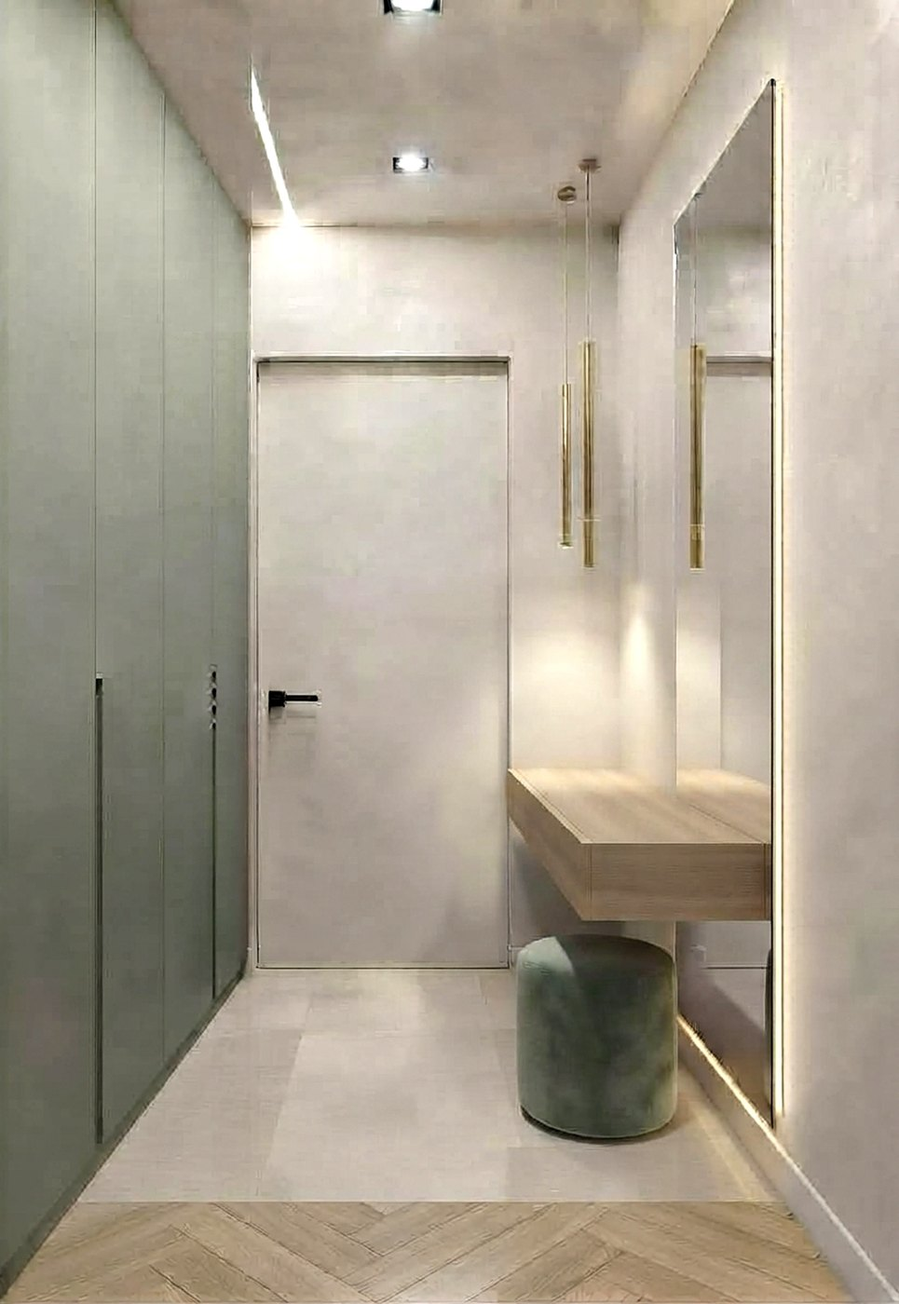
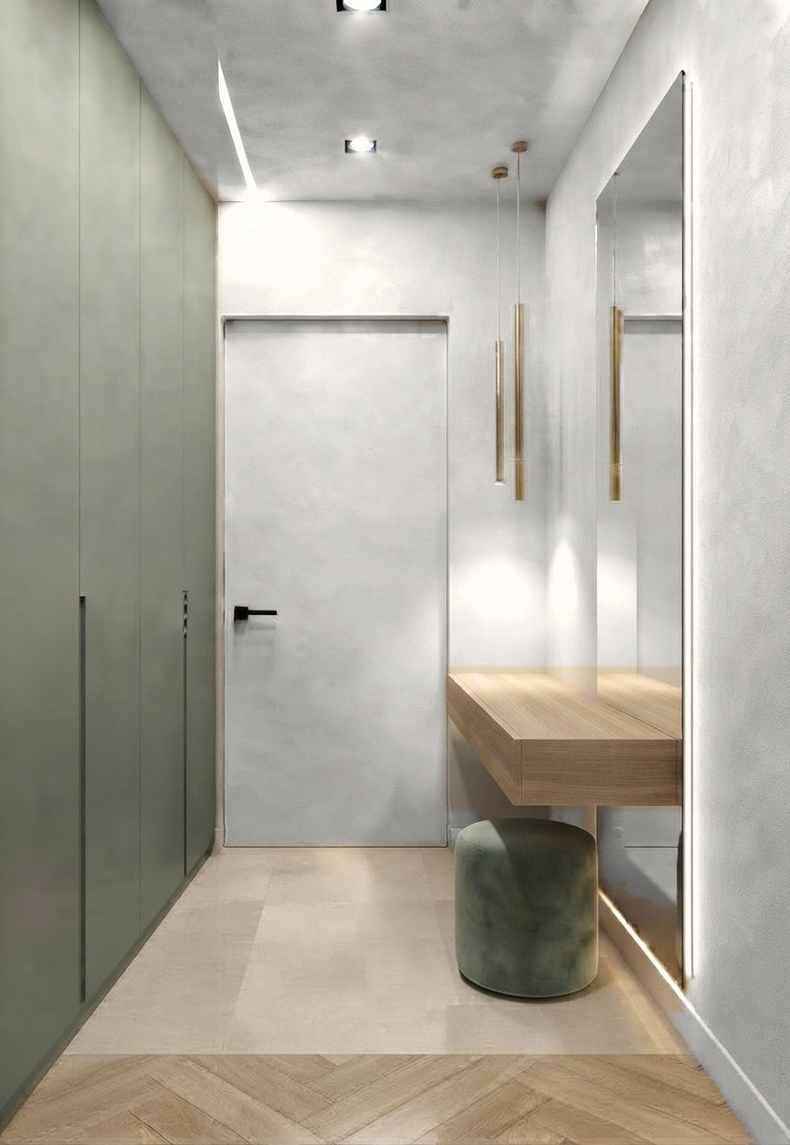
Hallway: white walls version
Claude-Session: https://claude.ai/code/session_01MbzakcTS9zrjW94ifsyEv2

diff --git a/interior/index.html b/interior/index.html
@@ -87,7 +87,7 @@ html,body{overflow-x:hidden}
   <div class="feed" id="feed"></div>
 </div>
 <div class="lb" id="lb" hidden><img id="lbImg" alt=""><button id="lbClose" aria-label="Закрыть">×</button></div>
-<script id="data" type="application/json">[{"key": "gostinaya", "title": "Кухня-гостиная", "items": [{"id": "v7-gostinaya-05", "src": "img/v7-gostinaya-05.jpg", "w": 1195, "h": 896, "label": "Наша комната по фото: вид из прихожей на окно"}, {"id": "v7-gostinaya-02", "src": "img/v7-gostinaya-02.jpg", "w": 1195, "h": 896, "label": "Наша комната по фото: кухня шалфей, диван розовый, стол круглый"}, {"id": "v7-gostinaya-03", "src": "img/v7-gostinaya-03.jpg", "w": 896, "h": 1195, "label": "Наша комната по фото: вид от окна на кухню и нишу"}, {"id": "v7-gostinaya-04", "src": "img/v7-gostinaya-04.jpg", "w": 896, "h": 1195, "label": "Наша комната по фото: вид вдоль стены с ТВ"}, {"id": "v3-gostinaya-01", "src": "img/v3-gostinaya-01.jpg", "w": 1115, "h": 960, "label": "Кухня и диван разного цвета · 1"}, {"id": "v3-gostinaya-02", "src": "img/v3-gostinaya-02.jpg", "w": 1115, "h": 960, "label": "Кухня и диван разного цвета · 2"}, {"id": "v3-gostinaya-03", "src": "img/v3-gostinaya-03.jpg", "w": 1115, "h": 960, "label": "Кухня и диван разного цвета · 3"}, {"id": "v3-gostinaya-04", "src": "img/v3-gostinaya-04.jpg", "w": 1115, "h": 960, "label": "Кухня и диван разного цвета · 4"}, {"id": "v3-gostinaya-05", "src": "img/v3-gostinaya-05.jpg", "w": 1115, "h": 960, "label": "Кухня и диван разного цвета · 5"}, {"id": "v3-gostinaya-06", "src": "img/v3-gostinaya-06.jpg", "w": 1115, "h": 960, "label": "Кухня и диван разного цвета · 6"}, {"id": "v3-gostinaya-07", "src": "img/v3-gostinaya-07.jpg", "w": 1115, "h": 960, "label": "Кухня и диван разного цвета · 7"}, {"id": "v3-gostinaya-08", "src": "img/v3-gostinaya-08.jpg", "w": 1115, "h": 960, "label": "Кухня и диван разного цвета · 8"}, {"id": "v3-gostinaya-09", "src": "img/v3-gostinaya-09.jpg", "w": 1115, "h": 960, "label": "Глубокий зелёный · 1"}, {"id": "v3-gostinaya-10", "src": "img/v3-gostinaya-10.jpg", "w": 1115, "h": 960, "label": "Глубокий зелёный · 2"}, {"id": "v3-gostinaya-11", "src": "img/v3-gostinaya-11.jpg", "w": 1115, "h": 960, "label": "Глубокий зелёный · 3"}, {"id": "v3-gostinaya-12", "src": "img/v3-gostinaya-12.jpg", "w": 1115, "h": 960, "label": "Глубокий зелёный · 4"}, {"id": "v3-gostinaya-13", "src": "img/v3-gostinaya-13.jpg", "w": 1115, "h": 960, "label": "Глубокий зелёный · 5"}, {"id": "v2-gostinaya-01", "src": "img/v2-gostinaya-01.jpg", "w": 1264, "h": 843}, {"id": "v2-gostinaya-02", "src": "img/v2-gostinaya-02.jpg", "w": 1115, "h": 960}, {"id": "v2-gostinaya-03", "src": "img/v2-gostinaya-03.jpg", "w": 1115, "h": 960}, {"id": "v2-gostinaya-04", "src": "img/v2-gostinaya-04.jpg", "w": 1115, "h": 960}]}, {"key": "spalnya", "title": "Спальня", "items": [{"id": "v2-spalnya-01", "src": "img/v2-spalnya-01.jpg", "w": 1376, "h": 768}, {"id": "v2-spalnya-02", "src": "img/v2-spalnya-02.jpg", "w": 1376, "h": 768}, {"id": "v2-spalnya-03", "src": "img/v2-spalnya-03.jpg", "w": 1115, "h": 960}, {"id": "v2-spalnya-04", "src": "img/v2-spalnya-04.jpg", "w": 1376, "h": 768}, {"id": "v2-spalnya-05", "src": "img/v2-spalnya-05.jpg", "w": 1376, "h": 768}]}, {"key": "komnata", "title": "Комната", "items": [{"id": "v5-komnata-01", "w": 1153, "h": 912, "src": "img/v5-komnata-01.jpg", "label": "Белые стены, шкаф шалфей"}, {"id": "v3-komnata-01", "src": "img/v3-komnata-01.jpg", "w": 1052, "h": 827, "label": "Цветная стена: глубокий зелёный"}, {"id": "v3-komnata-02", "src": "img/v3-komnata-02.jpg", "w": 1200, "h": 896, "label": "Цветная стена: шалфей"}, {"id": "v3-komnata-03", "src": "img/v3-komnata-03.jpg", "w": 1011, "h": 732, "label": "Цветная стена: шалфей"}, {"id": "v3-komnata-04", "src": "img/v3-komnata-04.jpg", "w": 987, "h": 768, "label": "Цветная стена: синяя стена"}, {"id": "v3-komnata-05", "src": "img/v3-komnata-05.jpg", "w": 869, "h": 708, "label": "Цветная стена: синяя стена"}, {"id": "v3-komnata-06", "src": "img/v3-komnata-06.jpg", "w": 989, "h": 828, "label": "Цветная стена: глубокий зелёный"}, {"id": "v3-komnata-07", "src": "img/v3-komnata-07.jpg", "w": 976, "h": 714, "label": "Цветная стена: глубокий зелёный"}, {"id": "v3-komnata-08", "src": "img/v3-komnata-08.jpg", "w": 985, "h": 779, "label": "Цветная стена: шалфей"}, {"id": "v3-komnata-09", "src": "img/v3-komnata-09.jpg", "w": 1200, "h": 896, "label": "Цветная стена: синяя стена"}, {"id": "v3-komnata-10", "src": "img/v3-komnata-10.jpg", "w": 908, "h": 721, "label": "Цветная стена: синяя стена"}, {"id": "v2-komnata-01", "src": "img/v2-komnata-01.jpg", "w": 1376, "h": 768}, {"id": "v2-komnata-02", "src": "img/v2-komnata-02.jpg", "w": 1264, "h": 842}, {"id": "v2-komnata-03", "src": "img/v2-komnata-03.jpg", "w": 1376, "h": 768}, {"id": "v2-komnata-04", "src": "img/v2-komnata-04.jpg", "w": 1376, "h": 768}]}, {"key": "prihozhaya", "title": "Прихожая", "items": [{"id": "v8-prihozhaya-01", "src": "img/v8-prihozhaya-01.jpg", "w": 965, "h": 1400, "label": "Наша прихожая по фото"}, {"id": "v6-prihozhaya-01", "src": "img/v6-prihozhaya-01.jpg", "w": 797, "h": 1152, "label": "A · шалфей, консоль из дуба, зеркало, светлый пол"}, {"id": "v6-prihozhaya-02", "src": "img/v6-prihozhaya-02.jpg", "w": 863, "h": 1248, "label": "B · шалфей, полуовальное зеркало с подсветкой"}, {"id": "v6-prihozhaya-03", "src": "img/v6-prihozhaya-03.jpg", "w": 863, "h": 1248, "label": "шкаф шалфей, белые стены, полоса шалфея за зеркалом"}, {"id": "v6-prihozhaya-04", "src": "img/v6-prihozhaya-04.jpg", "w": 863, "h": 1248, "label": "шкаф шалфей, белые стены, полуовальное зеркало"}, {"id": "v4-prihozhaya-01", "src": "img/v4-prihozhaya-01.jpg", "w": 928, "h": 1152, "label": "Новая плитка: пол «бетон»"}, {"id": "v4-prihozhaya-02", "src": "img/v4-prihozhaya-02.jpg", "w": 928, "h": 1152, "label": "Пол «бетон» + полоса терраццо"}, {"id": "v3-prihozhaya-02", "src": "img/v3-prihozhaya-02.jpg", "w": 928, "h": 1152, "label": "Зеркало, рельеф, консоль"}, {"id": "v3-prihozhaya-03", "src": "img/v3-prihozhaya-03.jpg", "w": 928, "h": 1152, "label": "Зеркало, рельеф, консоль · 2"}, {"id": "v3-prihozhaya-04", "src": "img/v3-prihozhaya-04.jpg", "w": 768, "h": 1398, "label": "Зеркало, рельеф, консоль · 3"}, {"id": "v3-prihozhaya-05", "src": "img/v3-prihozhaya-05.jpg", "w": 928, "h": 1152, "label": "Шахматка мрамор 30×30"}, {"id": "v2-prihozhaya-01", "src": "img/v2-prihozhaya-01.jpg", "w": 928, "h": 1152}, {"id": "v2-prihozhaya-02", "src": "img/v2-prihozhaya-02.jpg", "w": 928, "h": 1152}, {"id": "v2-prihozhaya-03", "src": "img/v2-prihozhaya-03.jpg", "w": 928, "h": 1152}, {"id": "v2-prihozhaya-04", "src": "img/v2-prihozhaya-04.jpg", "w": 928, "h": 1152}]}, {"key": "sanuzel", "title": "Большой санузел", "items": [{"id": "v4-sanuzel-01", "src": "img/v4-sanuzel-01.jpg", "w": 1024, "h": 1024, "label": "Терраццо · зелёный"}, {"id": "v4-sanuzel-02", "src": "img/v4-sanuzel-02.jpg", "w": 1024, "h": 1024, "label": "Терраццо · фисташковый"}, {"id": "v4-sanuzel-03", "src": "img/v4-sanuzel-03.jpg", "w": 1024, "h": 1024, "label": "Терраццо · розовый"}, {"id": "v3-sanuzel-01", "src": "img/v3-sanuzel-01.jpg", "w": 1024, "h": 1024, "label": "Шахматка мрамор · розовый"}, {"id": "v3-sanuzel-02", "src": "img/v3-sanuzel-02.jpg", "w": 1024, "h": 1024, "label": "Шахматка мрамор · фисташковый"}, {"id": "v3-sanuzel-03", "src": "img/v3-sanuzel-03.jpg", "w": 1024, "h": 1024, "label": "Шахматка мрамор · зелёный"}, {"id": "v2-sanuzel-01", "src": "img/v2-sanuzel-01.jpg", "w": 1024, "h": 1024}, {"id": "v2-sanuzel-02", "src": "img/v2-sanuzel-02.jpg", "w": 1024, "h": 1024}, {"id": "v2-sanuzel-03", "src": "img/v2-sanuzel-03.jpg", "w": 1024, "h": 1024}]}, {"key": "malyy", "title": "Малый санузел", "items": [{"id": "v4-malyy-01", "src": "img/v4-malyy-01.jpg", "w": 928, "h": 1152, "label": "Терраццо · тёмная стена"}, {"id": "v4-malyy-02", "src": "img/v4-malyy-02.jpg", "w": 928, "h": 1152, "label": "Терраццо · тёмная стена 2"}, {"id": "v3-malyy-01", "src": "img/v3-malyy-01.jpg", "w": 922, "h": 1152, "label": "Шахматка мрамор · тёмная стена"}, {"id": "v3-malyy-02", "src": "img/v3-malyy-02.jpg", "w": 922, "h": 1152, "label": "Шахматка мрамор · рифлёное стекло"}, {"id": "v2-malyy-02", "src": "img/v2-malyy-02.jpg", "w": 922, "h": 1152}, {"id": "v2-malyy-03", "src": "img/v2-malyy-03.jpg", "w": 922, "h": 1152}, {"id": "malyy-01", "src": "img/malyy-01.jpg", "w": 800, "h": 1000}]}, {"key": "plitka", "title": "Плитка", "items": [{"id": "v4-plitka-01", "src": "img/v4-plitka-01.jpg", "w": 600, "h": 800, "label": "Новая: стена терраццо"}, {"id": "v4-plitka-02", "src": "img/v4-plitka-02.jpg", "w": 600, "h": 800, "label": "Новая: пол «бетон»"}, {"id": "plitka-01", "src": "img/plitka-01.jpg", "w": 600, "h": 800, "label": "№1 · 0600FF0F-9DD6-43B9-9C91-C7F926A88519.webp"}, {"id": "plitka-02", "src": "img/plitka-02.jpg", "w": 600, "h": 800, "label": "№2 · 19242F42-C977-4784-9F53-6B5CF98BA716.webp"}, {"id": "plitka-03", "src": "img/plitka-03.jpg", "w": 600, "h": 800, "label": "№3 · 39A895D6-7C68-4E81-9244-2EB626393E7F.webp"}, {"id": "plitka-04", "src": "img/plitka-04.jpg", "w": 600, "h": 800, "label": "№4 · 3B6C7387-F3D7-4D1D-BF3E-AADA55166824.webp"}, {"id": "plitka-05", "src": "img/plitka-05.jpg", "w": 600, "h": 800, "label": "№5 · 436C2FA6-A60E-4F56-9E1F-BFCEEE47C756.webp"}, {"id": "plitka-06", "src": "img/plitka-06.jpg", "w": 600, "h": 800, "label": "№6 · 732E4BD0-69F8-4F92-8E37-33B5F40D059F.webp"}, {"id": "plitka-07", "src": "img/plitka-07.jpg", "w": 600, "h": 800, "label": "№7 · 7E7CBB3A-52A3-4883-82BD-B31A5F33C906.webp"}, {"id": "plitka-08", "src": "img/plitka-08.jpg", "w": 600, "h": 800, "label": "№8 · 858C799C-D83B-478A-9A26-941D6CF86D83.webp"}, {"id": "plitka-09", "src": "img/plitka-09.jpg", "w": 600, "h": 800, "label": "№9 · 8BC1A99E-0EA1-44F7-8BE5-B46068AB709D.webp"}, {"id": "plitka-10", "src": "img/plitka-10.jpg", "w": 600, "h": 800, "label": "№10 · 9B68CDC4-CA64-4B92-B1E3-8F3ACD6FF673.webp"}, {"id": "plitka-11", "src": "img/plitka-11.jpg", "w": 600, "h": 800, "label": "№11 · 9EF97333-BF62-44B4-B4D2-7B8AB1CAF12C.webp"}, {"id": "plitka-12", "src": "img/plitka-12.jpg", "w": 600, "h": 800, "label": "№12 · A222582E-1CE6-45B6-A207-BA7B76B9F7B4.webp"}, {"id": "plitka-13", "src": "img/plitka-13.jpg", "w": 600, "h": 800, "label": "№13 · B05E9139-A320-4B85-A673-EF6696DED826.webp"}, {"id": "plitka-14", "src": "img/plitka-14.jpg", "w": 600, "h": 800, "label": "№14 · B2628FF3-EC69-4166-AF57-BB0EAFF3ECAD.webp"}, {"id": "plitka-15", "src": "img/plitka-15.jpg", "w": 600, "h": 800, "label": "№15 · BD685EE5-0C8B-463C-960B-64CBDBAA540F.webp"}, {"id": "plitka-16", "src": "img/plitka-16.jpg", "w": 370, "h": 800, "label": "№16 · C9B29657-B3FE-41BB-975E-7B820749408E.webp"}, {"id": "plitka-17", "src": "img/plitka-17.jpg", "w": 600, "h": 800, "label": "№17 · CEA86B43-93B3-47DA-A731-0C3256293E69.webp"}, {"id": "plitka-18", "src": "img/plitka-18.jpg", "w": 600, "h": 800, "label": "№18 · DDE9D3A4-8C7F-43A7-894E-7589A5239AA2.webp"}, {"id": "plitka-19", "src": "img/plitka-19.jpg", "w": 600, "h": 800, "label": "№19 · ED52FC30-C172-46E1-BAAC-25F5C9DDBE25.webp"}, {"id": "plitka-20", "src": "img/plitka-20.jpg", "w": 600, "h": 800, "label": "№20 · F3C4255F-F63E-4351-9154-95CF16E21326.webp"}, {"id": "plitka-21", "src": "img/plitka-21.jpg", "w": 600, "h": 800, "label": "№21 · F4AA8B5B-04E9-4710-9C1E-72CDF57FE334.webp"}, {"id": "plitka-22", "src": "img/plitka-22.jpg", "w": 600, "h": 800, "label": "№22 · IMG_6914.jpeg"}, {"id": "plitka-23", "src": "img/plitka-23.jpg", "w": 600, "h": 800, "label": "№23 · IMG_6915.jpeg"}, {"id": "plitka-24", "src": "img/plitka-24.jpg", "w": 600, "h": 800, "label": "№24 · IMG_6916.jpeg"}, {"id": "plitka-25", "src": "img/plitka-25.jpg", "w": 600, "h": 800, "label": "№25 · IMG_6918.jpeg"}, {"id": "plitka-26", "src": "img/plitka-26.jpg", "w": 370, "h": 800, "label": "№26 · IMG_7438.png"}, {"id": "plitka-27", "src": "img/plitka-27.jpg", "w": 600, "h": 800, "label": "№27 · IMG_7833.jpeg"}, {"id": "plitka-28", "src": "img/plitka-28.jpg", "w": 728, "h": 800, "label": "№28 · IMG_7877.jpeg"}, {"id": "plitka-29", "src": "img/plitka-29.jpg", "w": 370, "h": 800, "label": "№29 · IMG_7884.png"}, {"id": "plitka-30", "src": "img/plitka-30.jpg", "w": 598, "h": 561, "label": "№30 · IMG_7892.jpeg"}, {"id": "plitka-31", "src": "img/plitka-31.jpg", "w": 370, "h": 800, "label": "№31 · IMG_7893.png"}, {"id": "plitka-32", "src": "img/plitka-32.jpg", "w": 600, "h": 800, "label": "№32 · IMG_7895.jpeg"}, {"id": "plitka-33", "src": "img/plitka-33.jpg", "w": 600, "h": 800, "label": "№33 · IMG_7896.jpeg"}, {"id": "plitka-34", "src": "img/plitka-34.jpg", "w": 600, "h": 800, "label": "№34 · IMG_7897.jpeg"}, {"id": "plitka-35", "src": "img/plitka-35.jpg", "w": 600, "h": 800, "label": "№35 · IMG_7898.jpeg"}, {"id": "plitka-36", "src": "img/plitka-36.jpg", "w": 600, "h": 800, "label": "№36 · IMG_7899.jpeg"}, {"id": "plitka-37", "src": "img/plitka-37.jpg", "w": 600, "h": 800, "label": "№37 · IMG_7900.jpeg"}, {"id": "plitka-38", "src": "img/plitka-38.jpg", "w": 600, "h": 800, "label": "№38 · IMG_7901.jpeg"}, {"id": "plitka-39", "src": "img/plitka-39.jpg", "w": 600, "h": 800, "label": "№39 · IMG_7902.jpeg"}]}]</script>
+<script id="data" type="application/json">[{"key": "gostinaya", "title": "Кухня-гостиная", "items": [{"id": "v7-gostinaya-05", "src": "img/v7-gostinaya-05.jpg", "w": 1195, "h": 896, "label": "Наша комната по фото: вид из прихожей на окно"}, {"id": "v7-gostinaya-02", "src": "img/v7-gostinaya-02.jpg", "w": 1195, "h": 896, "label": "Наша комната по фото: кухня шалфей, диван розовый, стол круглый"}, {"id": "v7-gostinaya-03", "src": "img/v7-gostinaya-03.jpg", "w": 896, "h": 1195, "label": "Наша комната по фото: вид от окна на кухню и нишу"}, {"id": "v7-gostinaya-04", "src": "img/v7-gostinaya-04.jpg", "w": 896, "h": 1195, "label": "Наша комната по фото: вид вдоль стены с ТВ"}, {"id": "v3-gostinaya-01", "src": "img/v3-gostinaya-01.jpg", "w": 1115, "h": 960, "label": "Кухня и диван разного цвета · 1"}, {"id": "v3-gostinaya-02", "src": "img/v3-gostinaya-02.jpg", "w": 1115, "h": 960, "label": "Кухня и диван разного цвета · 2"}, {"id": "v3-gostinaya-03", "src": "img/v3-gostinaya-03.jpg", "w": 1115, "h": 960, "label": "Кухня и диван разного цвета · 3"}, {"id": "v3-gostinaya-04", "src": "img/v3-gostinaya-04.jpg", "w": 1115, "h": 960, "label": "Кухня и диван разного цвета · 4"}, {"id": "v3-gostinaya-05", "src": "img/v3-gostinaya-05.jpg", "w": 1115, "h": 960, "label": "Кухня и диван разного цвета · 5"}, {"id": "v3-gostinaya-06", "src": "img/v3-gostinaya-06.jpg", "w": 1115, "h": 960, "label": "Кухня и диван разного цвета · 6"}, {"id": "v3-gostinaya-07", "src": "img/v3-gostinaya-07.jpg", "w": 1115, "h": 960, "label": "Кухня и диван разного цвета · 7"}, {"id": "v3-gostinaya-08", "src": "img/v3-gostinaya-08.jpg", "w": 1115, "h": 960, "label": "Кухня и диван разного цвета · 8"}, {"id": "v3-gostinaya-09", "src": "img/v3-gostinaya-09.jpg", "w": 1115, "h": 960, "label": "Глубокий зелёный · 1"}, {"id": "v3-gostinaya-10", "src": "img/v3-gostinaya-10.jpg", "w": 1115, "h": 960, "label": "Глубокий зелёный · 2"}, {"id": "v3-gostinaya-11", "src": "img/v3-gostinaya-11.jpg", "w": 1115, "h": 960, "label": "Глубокий зелёный · 3"}, {"id": "v3-gostinaya-12", "src": "img/v3-gostinaya-12.jpg", "w": 1115, "h": 960, "label": "Глубокий зелёный · 4"}, {"id": "v3-gostinaya-13", "src": "img/v3-gostinaya-13.jpg", "w": 1115, "h": 960, "label": "Глубокий зелёный · 5"}, {"id": "v2-gostinaya-01", "src": "img/v2-gostinaya-01.jpg", "w": 1264, "h": 843}, {"id": "v2-gostinaya-02", "src": "img/v2-gostinaya-02.jpg", "w": 1115, "h": 960}, {"id": "v2-gostinaya-03", "src": "img/v2-gostinaya-03.jpg", "w": 1115, "h": 960}, {"id": "v2-gostinaya-04", "src": "img/v2-gostinaya-04.jpg", "w": 1115, "h": 960}]}, {"key": "spalnya", "title": "Спальня", "items": [{"id": "v2-spalnya-01", "src": "img/v2-spalnya-01.jpg", "w": 1376, "h": 768}, {"id": "v2-spalnya-02", "src": "img/v2-spalnya-02.jpg", "w": 1376, "h": 768}, {"id": "v2-spalnya-03", "src": "img/v2-spalnya-03.jpg", "w": 1115, "h": 960}, {"id": "v2-spalnya-04", "src": "img/v2-spalnya-04.jpg", "w": 1376, "h": 768}, {"id": "v2-spalnya-05", "src": "img/v2-spalnya-05.jpg", "w": 1376, "h": 768}]}, {"key": "komnata", "title": "Комната", "items": [{"id": "v5-komnata-01", "w": 1153, "h": 912, "src": "img/v5-komnata-01.jpg", "label": "Белые стены, шкаф шалфей"}, {"id": "v3-komnata-01", "src": "img/v3-komnata-01.jpg", "w": 1052, "h": 827, "label": "Цветная стена: глубокий зелёный"}, {"id": "v3-komnata-02", "src": "img/v3-komnata-02.jpg", "w": 1200, "h": 896, "label": "Цветная стена: шалфей"}, {"id": "v3-komnata-03", "src": "img/v3-komnata-03.jpg", "w": 1011, "h": 732, "label": "Цветная стена: шалфей"}, {"id": "v3-komnata-04", "src": "img/v3-komnata-04.jpg", "w": 987, "h": 768, "label": "Цветная стена: синяя стена"}, {"id": "v3-komnata-05", "src": "img/v3-komnata-05.jpg", "w": 869, "h": 708, "label": "Цветная стена: синяя стена"}, {"id": "v3-komnata-06", "src": "img/v3-komnata-06.jpg", "w": 989, "h": 828, "label": "Цветная стена: глубокий зелёный"}, {"id": "v3-komnata-07", "src": "img/v3-komnata-07.jpg", "w": 976, "h": 714, "label": "Цветная стена: глубокий зелёный"}, {"id": "v3-komnata-08", "src": "img/v3-komnata-08.jpg", "w": 985, "h": 779, "label": "Цветная стена: шалфей"}, {"id": "v3-komnata-09", "src": "img/v3-komnata-09.jpg", "w": 1200, "h": 896, "label": "Цветная стена: синяя стена"}, {"id": "v3-komnata-10", "src": "img/v3-komnata-10.jpg", "w": 908, "h": 721, "label": "Цветная стена: синяя стена"}, {"id": "v2-komnata-01", "src": "img/v2-komnata-01.jpg", "w": 1376, "h": 768}, {"id": "v2-komnata-02", "src": "img/v2-komnata-02.jpg", "w": 1264, "h": 842}, {"id": "v2-komnata-03", "src": "img/v2-komnata-03.jpg", "w": 1376, "h": 768}, {"id": "v2-komnata-04", "src": "img/v2-komnata-04.jpg", "w": 1376, "h": 768}]}, {"key": "prihozhaya", "title": "Прихожая", "items": [{"id": "v8-prihozhaya-01", "src": "img/v8-prihozhaya-01.jpg", "w": 848, "h": 1229, "label": "Наша прихожая по фото"}, {"id": "v6-prihozhaya-01", "src": "img/v6-prihozhaya-01.jpg", "w": 797, "h": 1152, "label": "A · шалфей, консоль из дуба, зеркало, светлый пол"}, {"id": "v6-prihozhaya-02", "src": "img/v6-prihozhaya-02.jpg", "w": 863, "h": 1248, "label": "B · шалфей, полуовальное зеркало с подсветкой"}, {"id": "v6-prihozhaya-03", "src": "img/v6-prihozhaya-03.jpg", "w": 863, "h": 1248, "label": "шкаф шалфей, белые стены, полоса шалфея за зеркалом"}, {"id": "v6-prihozhaya-04", "src": "img/v6-prihozhaya-04.jpg", "w": 863, "h": 1248, "label": "шкаф шалфей, белые стены, полуовальное зеркало"}, {"id": "v4-prihozhaya-01", "src": "img/v4-prihozhaya-01.jpg", "w": 928, "h": 1152, "label": "Новая плитка: пол «бетон»"}, {"id": "v4-prihozhaya-02", "src": "img/v4-prihozhaya-02.jpg", "w": 928, "h": 1152, "label": "Пол «бетон» + полоса терраццо"}, {"id": "v3-prihozhaya-02", "src": "img/v3-prihozhaya-02.jpg", "w": 928, "h": 1152, "label": "Зеркало, рельеф, консоль"}, {"id": "v3-prihozhaya-03", "src": "img/v3-prihozhaya-03.jpg", "w": 928, "h": 1152, "label": "Зеркало, рельеф, консоль · 2"}, {"id": "v3-prihozhaya-04", "src": "img/v3-prihozhaya-04.jpg", "w": 768, "h": 1398, "label": "Зеркало, рельеф, консоль · 3"}, {"id": "v3-prihozhaya-05", "src": "img/v3-prihozhaya-05.jpg", "w": 928, "h": 1152, "label": "Шахматка мрамор 30×30"}, {"id": "v2-prihozhaya-01", "src": "img/v2-prihozhaya-01.jpg", "w": 928, "h": 1152}, {"id": "v2-prihozhaya-02", "src": "img/v2-prihozhaya-02.jpg", "w": 928, "h": 1152}, {"id": "v2-prihozhaya-03", "src": "img/v2-prihozhaya-03.jpg", "w": 928, "h": 1152}, {"id": "v2-prihozhaya-04", "src": "img/v2-prihozhaya-04.jpg", "w": 928, "h": 1152}]}, {"key": "sanuzel", "title": "Большой санузел", "items": [{"id": "v4-sanuzel-01", "src": "img/v4-sanuzel-01.jpg", "w": 1024, "h": 1024, "label": "Терраццо · зелёный"}, {"id": "v4-sanuzel-02", "src": "img/v4-sanuzel-02.jpg", "w": 1024, "h": 1024, "label": "Терраццо · фисташковый"}, {"id": "v4-sanuzel-03", "src": "img/v4-sanuzel-03.jpg", "w": 1024, "h": 1024, "label": "Терраццо · розовый"}, {"id": "v3-sanuzel-01", "src": "img/v3-sanuzel-01.jpg", "w": 1024, "h": 1024, "label": "Шахматка мрамор · розовый"}, {"id": "v3-sanuzel-02", "src": "img/v3-sanuzel-02.jpg", "w": 1024, "h": 1024, "label": "Шахматка мрамор · фисташковый"}, {"id": "v3-sanuzel-03", "src": "img/v3-sanuzel-03.jpg", "w": 1024, "h": 1024, "label": "Шахматка мрамор · зелёный"}, {"id": "v2-sanuzel-01", "src": "img/v2-sanuzel-01.jpg", "w": 1024, "h": 1024}, {"id": "v2-sanuzel-02", "src": "img/v2-sanuzel-02.jpg", "w": 1024, "h": 1024}, {"id": "v2-sanuzel-03", "src": "img/v2-sanuzel-03.jpg", "w": 1024, "h": 1024}]}, {"key": "malyy", "title": "Малый санузел", "items": [{"id": "v4-malyy-01", "src": "img/v4-malyy-01.jpg", "w": 928, "h": 1152, "label": "Терраццо · тёмная стена"}, {"id": "v4-malyy-02", "src": "img/v4-malyy-02.jpg", "w": 928, "h": 1152, "label": "Терраццо · тёмная стена 2"}, {"id": "v3-malyy-01", "src": "img/v3-malyy-01.jpg", "w": 922, "h": 1152, "label": "Шахматка мрамор · тёмная стена"}, {"id": "v3-malyy-02", "src": "img/v3-malyy-02.jpg", "w": 922, "h": 1152, "label": "Шахматка мрамор · рифлёное стекло"}, {"id": "v2-malyy-02", "src": "img/v2-malyy-02.jpg", "w": 922, "h": 1152}, {"id": "v2-malyy-03", "src": "img/v2-malyy-03.jpg", "w": 922, "h": 1152}, {"id": "malyy-01", "src": "img/malyy-01.jpg", "w": 800, "h": 1000}]}, {"key": "plitka", "title": "Плитка", "items": [{"id": "v4-plitka-01", "src": "img/v4-plitka-01.jpg", "w": 600, "h": 800, "label": "Новая: стена терраццо"}, {"id": "v4-plitka-02", "src": "img/v4-plitka-02.jpg", "w": 600, "h": 800, "label": "Новая: пол «бетон»"}, {"id": "plitka-01", "src": "img/plitka-01.jpg", "w": 600, "h": 800, "label": "№1 · 0600FF0F-9DD6-43B9-9C91-C7F926A88519.webp"}, {"id": "plitka-02", "src": "img/plitka-02.jpg", "w": 600, "h": 800, "label": "№2 · 19242F42-C977-4784-9F53-6B5CF98BA716.webp"}, {"id": "plitka-03", "src": "img/plitka-03.jpg", "w": 600, "h": 800, "label": "№3 · 39A895D6-7C68-4E81-9244-2EB626393E7F.webp"}, {"id": "plitka-04", "src": "img/plitka-04.jpg", "w": 600, "h": 800, "label": "№4 · 3B6C7387-F3D7-4D1D-BF3E-AADA55166824.webp"}, {"id": "plitka-05", "src": "img/plitka-05.jpg", "w": 600, "h": 800, "label": "№5 · 436C2FA6-A60E-4F56-9E1F-BFCEEE47C756.webp"}, {"id": "plitka-06", "src": "img/plitka-06.jpg", "w": 600, "h": 800, "label": "№6 · 732E4BD0-69F8-4F92-8E37-33B5F40D059F.webp"}, {"id": "plitka-07", "src": "img/plitka-07.jpg", "w": 600, "h": 800, "label": "№7 · 7E7CBB3A-52A3-4883-82BD-B31A5F33C906.webp"}, {"id": "plitka-08", "src": "img/plitka-08.jpg", "w": 600, "h": 800, "label": "№8 · 858C799C-D83B-478A-9A26-941D6CF86D83.webp"}, {"id": "plitka-09", "src": "img/plitka-09.jpg", "w": 600, "h": 800, "label": "№9 · 8BC1A99E-0EA1-44F7-8BE5-B46068AB709D.webp"}, {"id": "plitka-10", "src": "img/plitka-10.jpg", "w": 600, "h": 800, "label": "№10 · 9B68CDC4-CA64-4B92-B1E3-8F3ACD6FF673.webp"}, {"id": "plitka-11", "src": "img/plitka-11.jpg", "w": 600, "h": 800, "label": "№11 · 9EF97333-BF62-44B4-B4D2-7B8AB1CAF12C.webp"}, {"id": "plitka-12", "src": "img/plitka-12.jpg", "w": 600, "h": 800, "label": "№12 · A222582E-1CE6-45B6-A207-BA7B76B9F7B4.webp"}, {"id": "plitka-13", "src": "img/plitka-13.jpg", "w": 600, "h": 800, "label": "№13 · B05E9139-A320-4B85-A673-EF6696DED826.webp"}, {"id": "plitka-14", "src": "img/plitka-14.jpg", "w": 600, "h": 800, "label": "№14 · B2628FF3-EC69-4166-AF57-BB0EAFF3ECAD.webp"}, {"id": "plitka-15", "src": "img/plitka-15.jpg", "w": 600, "h": 800, "label": "№15 · BD685EE5-0C8B-463C-960B-64CBDBAA540F.webp"}, {"id": "plitka-16", "src": "img/plitka-16.jpg", "w": 370, "h": 800, "label": "№16 · C9B29657-B3FE-41BB-975E-7B820749408E.webp"}, {"id": "plitka-17", "src": "img/plitka-17.jpg", "w": 600, "h": 800, "label": "№17 · CEA86B43-93B3-47DA-A731-0C3256293E69.webp"}, {"id": "plitka-18", "src": "img/plitka-18.jpg", "w": 600, "h": 800, "label": "№18 · DDE9D3A4-8C7F-43A7-894E-7589A5239AA2.webp"}, {"id": "plitka-19", "src": "img/plitka-19.jpg", "w": 600, "h": 800, "label": "№19 · ED52FC30-C172-46E1-BAAC-25F5C9DDBE25.webp"}, {"id": "plitka-20", "src": "img/plitka-20.jpg", "w": 600, "h": 800, "label": "№20 · F3C4255F-F63E-4351-9154-95CF16E21326.webp"}, {"id": "plitka-21", "src": "img/plitka-21.jpg", "w": 600, "h": 800, "label": "№21 · F4AA8B5B-04E9-4710-9C1E-72CDF57FE334.webp"}, {"id": "plitka-22", "src": "img/plitka-22.jpg", "w": 600, "h": 800, "label": "№22 · IMG_6914.jpeg"}, {"id": "plitka-23", "src": "img/plitka-23.jpg", "w": 600, "h": 800, "label": "№23 · IMG_6915.jpeg"}, {"id": "plitka-24", "src": "img/plitka-24.jpg", "w": 600, "h": 800, "label": "№24 · IMG_6916.jpeg"}, {"id": "plitka-25", "src": "img/plitka-25.jpg", "w": 600, "h": 800, "label": "№25 · IMG_6918.jpeg"}, {"id": "plitka-26", "src": "img/plitka-26.jpg", "w": 370, "h": 800, "label": "№26 · IMG_7438.png"}, {"id": "plitka-27", "src": "img/plitka-27.jpg", "w": 600, "h": 800, "label": "№27 · IMG_7833.jpeg"}, {"id": "plitka-28", "src": "img/plitka-28.jpg", "w": 728, "h": 800, "label": "№28 · IMG_7877.jpeg"}, {"id": "plitka-29", "src": "img/plitka-29.jpg", "w": 370, "h": 800, "label": "№29 · IMG_7884.png"}, {"id": "plitka-30", "src": "img/plitka-30.jpg", "w": 598, "h": 561, "label": "№30 · IMG_7892.jpeg"}, {"id": "plitka-31", "src": "img/plitka-31.jpg", "w": 370, "h": 800, "label": "№31 · IMG_7893.png"}, {"id": "plitka-32", "src": "img/plitka-32.jpg", "w": 600, "h": 800, "label": "№32 · IMG_7895.jpeg"}, {"id": "plitka-33", "src": "img/plitka-33.jpg", "w": 600, "h": 800, "label": "№33 · IMG_7896.jpeg"}, {"id": "plitka-34", "src": "img/plitka-34.jpg", "w": 600, "h": 800, "label": "№34 · IMG_7897.jpeg"}, {"id": "plitka-35", "src": "img/plitka-35.jpg", "w": 600, "h": 800, "label": "№35 · IMG_7898.jpeg"}, {"id": "plitka-36", "src": "img/plitka-36.jpg", "w": 600, "h": 800, "label": "№36 · IMG_7899.jpeg"}, {"id": "plitka-37", "src": "img/plitka-37.jpg", "w": 600, "h": 800, "label": "№37 · IMG_7900.jpeg"}, {"id": "plitka-38", "src": "img/plitka-38.jpg", "w": 600, "h": 800, "label": "№38 · IMG_7901.jpeg"}, {"id": "plitka-39", "src": "img/plitka-39.jpg", "w": 600, "h": 800, "label": "№39 · IMG_7902.jpeg"}]}]</script>
 <script>
 /* Ответы уходят в Google-форму (таблица у владельца). Заполните два значения ниже. */
 const FORM_ACTION = 'https://docs.google.com/forms/d/e/1FAIpQLSf0fpu6bYX8AfbI0DWtXiViWGJpiZCAC7_vtrAKPLAi6q84wA/formResponse';   // напр. https://docs.google.com/forms/d/e/XXXX/formResponse

diff --git a/interior/itog/index.html b/interior/itog/index.html
@@ -31,7 +31,7 @@ textarea{min-height:70px;resize:vertical;margin-top:10px}
 <p class="status" id="status"></p><p class="status">Версия 15 · в санузлах терраццо — вариант A</p>
 <div id="rooms"></div></div>
 <div class="lb" id="lb" hidden><img id="lbImg" alt=""></div>
-<script id="data" type="application/json">[{"key": "gostinaya", "title": "Кухня-гостиная", "opts": [{"id": "v7-gostinaya-05", "src": "../img/v7-gostinaya-05.jpg", "w": 1195, "h": 896, "label": "A · Наша комната по фото: вид из прихожей на окно"}, {"id": "v7-gostinaya-02", "src": "../img/v7-gostinaya-02.jpg", "w": 1195, "h": 896, "label": "A · тот же вариант: вид на диван и окно"}, {"id": "v7-gostinaya-03", "src": "../img/v7-gostinaya-03.jpg", "w": 896, "h": 1195, "label": "A · тот же вариант: вид от окна на кухню и нишу"}, {"id": "v7-gostinaya-04", "src": "../img/v7-gostinaya-04.jpg", "w": 896, "h": 1195, "label": "A · тот же вариант: вид вдоль стены с ТВ"}, {"id": "v3-gostinaya-03", "src": "../img/v3-gostinaya-03.jpg", "label": "B · фисташковая кухня, розовый диван, стулья охра", "w": 1115, "h": 960}, {"id": "v3-gostinaya-04", "src": "../img/v3-gostinaya-04.jpg", "label": "C · дубовая кухня, шалфейный диван, розовые стулья", "w": 1115, "h": 960}, {"id": "v3-gostinaya-02", "src": "../img/v3-gostinaya-02.jpg", "label": "D · фисташковая кухня, розовый диван, стулья охра + роза", "w": 1115, "h": 960}]}, {"key": "spalnya", "title": "Спальня", "opts": [{"id": "v2-spalnya-03", "src": "../img/v2-spalnya-03.jpg", "label": "A · фисташковая кровать, стулья охра", "w": 1115, "h": 960}, {"id": "v2-spalnya-02", "src": "../img/v2-spalnya-02.jpg", "label": "B · розовая кровать", "w": 1376, "h": 768}, {"id": "v2-spalnya-01", "src": "../img/v2-spalnya-01.jpg", "label": "C · кровать из дуба, шкаф шалфей", "w": 1376, "h": 768}]}, {"key": "komnata", "title": "Комната", "opts": [{"id": "v5-komnata-01", "w": 1153, "h": 912, "src": "../img/v5-komnata-01.jpg", "label": "Белые стены, шалфей — только шкаф. Что над столом — решим позже"}]}, {"key": "prihozhaya", "title": "Прихожая", "opts": [{"id": "v8-prihozhaya-01", "src": "../img/v8-prihozhaya-01.jpg", "w": 965, "h": 1400, "label": "A · Наша прихожая по фото: шкаф шалфей, зеркало до потолка"}, {"id": "v6-prihozhaya-01", "src": "../img/v6-prihozhaya-01.jpg", "w": 797, "h": 1152, "label": "B · шалфей, консоль из дуба, зеркало, светлый пол"}, {"id": "v6-prihozhaya-02", "src": "../img/v6-prihozhaya-02.jpg", "w": 863, "h": 1248, "label": "C · шалфей, полуовальное зеркало с подсветкой"}, {"id": "v6-prihozhaya-03", "src": "../img/v6-prihozhaya-03.jpg", "w": 863, "h": 1248, "label": "D · шкаф шалфей, белые стены, полоса шалфея за зеркалом"}, {"id": "v6-prihozhaya-04", "src": "../img/v6-prihozhaya-04.jpg", "w": 863, "h": 1248, "label": "E · шкаф шалфей, белые стены, полуовальное зеркало"}, {"id": "v2-prihozhaya-01", "src": "../img/v2-prihozhaya-01.jpg", "label": "F · фисташковый шкаф, мрамор", "w": 928, "h": 1152}, {"id": "v2-prihozhaya-04", "src": "../img/v2-prihozhaya-04.jpg", "label": "G · дубовый шкаф, ёлочка", "w": 928, "h": 1152}]}, {"key": "sanuzel", "title": "Большой санузел", "opts": [{"id": "v4-sanuzel-03", "src": "../img/v4-sanuzel-03.jpg", "label": "A · терраццо и дуб", "w": 1024, "h": 1024}, {"id": "v2-sanuzel-01", "src": "../img/v2-sanuzel-01.jpg", "label": "B · белый, дуб и розовая плитка", "w": 1024, "h": 1024}, {"id": "v2-sanuzel-02", "src": "../img/v2-sanuzel-02.jpg", "label": "C · белый, дуб и фисташковая плитка", "w": 1024, "h": 1024}]}, {"key": "malyy", "title": "Малый санузел", "opts": [{"id": "v4-malyy-01", "src": "../img/v4-malyy-01.jpg", "label": "A · терраццо и дуб", "w": 928, "h": 1152}, {"id": "v2-malyy-03", "src": "../img/v2-malyy-03.jpg", "label": "B · белый, дуб и зелёная плитка", "w": 922, "h": 1152}]}]</script>
+<script id="data" type="application/json">[{"key": "gostinaya", "title": "Кухня-гостиная", "opts": [{"id": "v7-gostinaya-05", "src": "../img/v7-gostinaya-05.jpg", "w": 1195, "h": 896, "label": "A · Наша комната по фото: вид из прихожей на окно"}, {"id": "v7-gostinaya-02", "src": "../img/v7-gostinaya-02.jpg", "w": 1195, "h": 896, "label": "A · тот же вариант: вид на диван и окно"}, {"id": "v7-gostinaya-03", "src": "../img/v7-gostinaya-03.jpg", "w": 896, "h": 1195, "label": "A · тот же вариант: вид от окна на кухню и нишу"}, {"id": "v7-gostinaya-04", "src": "../img/v7-gostinaya-04.jpg", "w": 896, "h": 1195, "label": "A · тот же вариант: вид вдоль стены с ТВ"}, {"id": "v3-gostinaya-03", "src": "../img/v3-gostinaya-03.jpg", "label": "B · фисташковая кухня, розовый диван, стулья охра", "w": 1115, "h": 960}, {"id": "v3-gostinaya-04", "src": "../img/v3-gostinaya-04.jpg", "label": "C · дубовая кухня, шалфейный диван, розовые стулья", "w": 1115, "h": 960}, {"id": "v3-gostinaya-02", "src": "../img/v3-gostinaya-02.jpg", "label": "D · фисташковая кухня, розовый диван, стулья охра + роза", "w": 1115, "h": 960}]}, {"key": "spalnya", "title": "Спальня", "opts": [{"id": "v2-spalnya-03", "src": "../img/v2-spalnya-03.jpg", "label": "A · фисташковая кровать, стулья охра", "w": 1115, "h": 960}, {"id": "v2-spalnya-02", "src": "../img/v2-spalnya-02.jpg", "label": "B · розовая кровать", "w": 1376, "h": 768}, {"id": "v2-spalnya-01", "src": "../img/v2-spalnya-01.jpg", "label": "C · кровать из дуба, шкаф шалфей", "w": 1376, "h": 768}]}, {"key": "komnata", "title": "Комната", "opts": [{"id": "v5-komnata-01", "w": 1153, "h": 912, "src": "../img/v5-komnata-01.jpg", "label": "Белые стены, шалфей — только шкаф. Что над столом — решим позже"}]}, {"key": "prihozhaya", "title": "Прихожая", "opts": [{"id": "v8-prihozhaya-01", "src": "../img/v8-prihozhaya-01.jpg", "w": 848, "h": 1229, "label": "A · Наша прихожая по фото: шкаф шалфей, зеркало до потолка"}, {"id": "v6-prihozhaya-01", "src": "../img/v6-prihozhaya-01.jpg", "w": 797, "h": 1152, "label": "B · шалфей, консоль из дуба, зеркало, светлый пол"}, {"id": "v6-prihozhaya-02", "src": "../img/v6-prihozhaya-02.jpg", "w": 863, "h": 1248, "label": "C · шалфей, полуовальное зеркало с подсветкой"}, {"id": "v6-prihozhaya-03", "src": "../img/v6-prihozhaya-03.jpg", "w": 863, "h": 1248, "label": "D · шкаф шалфей, белые стены, полоса шалфея за зеркалом"}, {"id": "v6-prihozhaya-04", "src": "../img/v6-prihozhaya-04.jpg", "w": 863, "h": 1248, "label": "E · шкаф шалфей, белые стены, полуовальное зеркало"}, {"id": "v2-prihozhaya-01", "src": "../img/v2-prihozhaya-01.jpg", "label": "F · фисташковый шкаф, мрамор", "w": 928, "h": 1152}, {"id": "v2-prihozhaya-04", "src": "../img/v2-prihozhaya-04.jpg", "label": "G · дубовый шкаф, ёлочка", "w": 928, "h": 1152}]}, {"key": "sanuzel", "title": "Большой санузел", "opts": [{"id": "v4-sanuzel-03", "src": "../img/v4-sanuzel-03.jpg", "label": "A · терраццо и дуб", "w": 1024, "h": 1024}, {"id": "v2-sanuzel-01", "src": "../img/v2-sanuzel-01.jpg", "label": "B · белый, дуб и розовая плитка", "w": 1024, "h": 1024}, {"id": "v2-sanuzel-02", "src": "../img/v2-sanuzel-02.jpg", "label": "C · белый, дуб и фисташковая плитка", "w": 1024, "h": 1024}]}, {"key": "malyy", "title": "Малый санузел", "opts": [{"id": "v4-malyy-01", "src": "../img/v4-malyy-01.jpg", "label": "A · терраццо и дуб", "w": 928, "h": 1152}, {"id": "v2-malyy-03", "src": "../img/v2-malyy-03.jpg", "label": "B · белый, дуб и зелёная плитка", "w": 922, "h": 1152}]}]</script>
 <script>
 const FORM_ACTION='https://docs.google.com/forms/d/e/1FAIpQLSf0fpu6bYX8AfbI0DWtXiViWGJpiZCAC7_vtrAKPLAi6q84wA/formResponse', FORM_ENTRY='entry.2073883489';
 const ROOMS=JSON.parse(document.getElementById('data').textContent), $=id=>document.getElementById(id);
